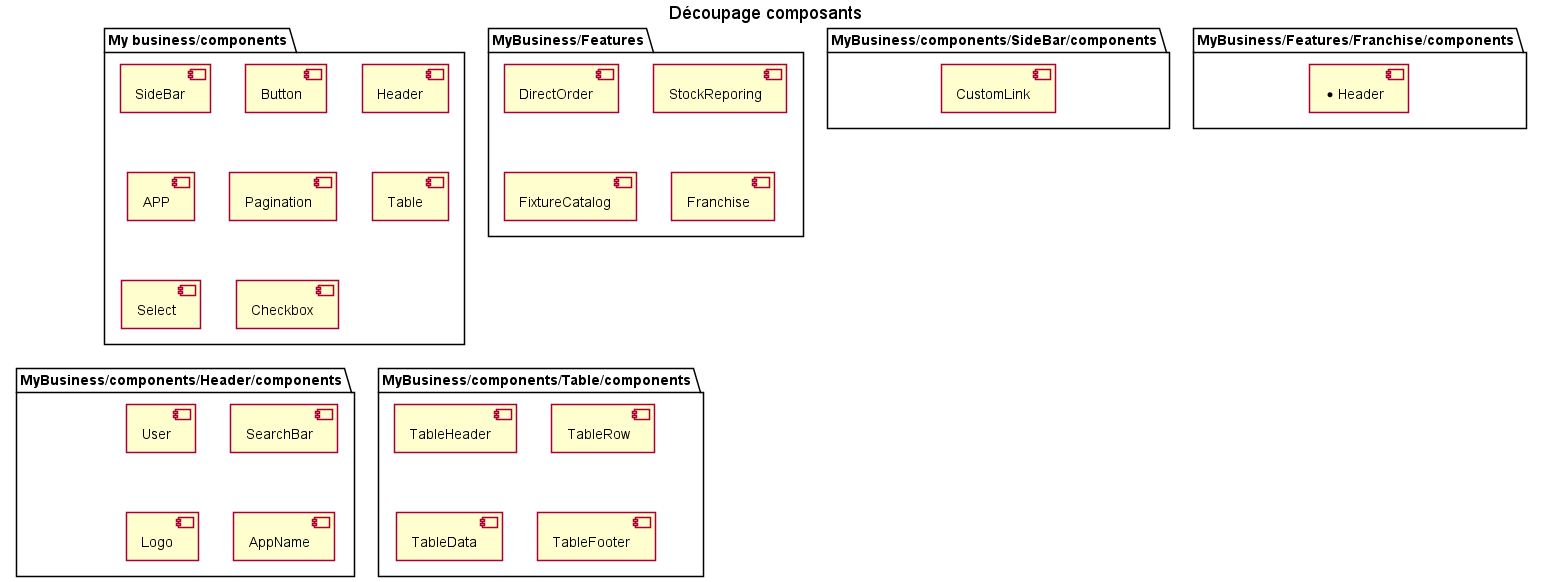
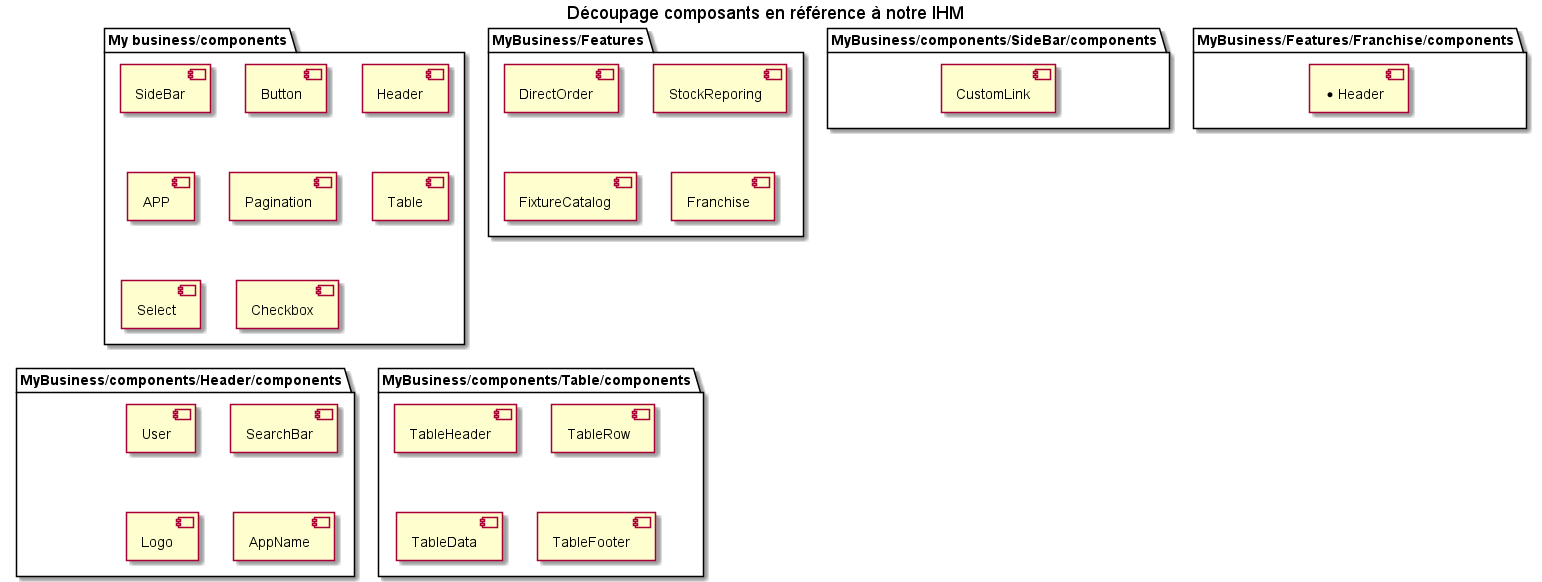
feat: continue the documentation

diff --git a/Doc-react-js.md b/Doc-react-js.md
@@ -1,65 +1,4 @@
 <!-- # Summary -->
-<!-- # Plan
-# Partie 1 - Installation de l'environnement React 
-
-#### Prérequis 
-## A. Création d'un projet React
-## I. ## I. 3 Méthodes
-
--   ### Manuel avec webpack et babel
-    
--   ###  Create-React-App
-    #### 1. Installation de Create-React-App
-
-- ### Vite
-    #### 1. Installation de vite
-
-## II. Pourquoi vite plutôt que CRA
-
-# Partie 2 - Comment architecturer son projet React
-
-### A. IHM de référence
-
-### B. Conception technique 
-
-#### 1. React router
-
-#### 2. Gestion des états globaux
-#### Installation de redux et redux-toolkit
-
-## Schéma
-
-#### Exemple de la gestion de l'état de la configuration de notre application globale
-
-#### 3. Découpage des composants 
-
-#### 4. Requêtes Api
-
-#### 5. Communication entre les composants
-
-#### 6. Architecture globale  des fichiers 
-
-### C. Bonnes pratiques
-
-#### 1. Séparer la logique du rendu visuel
-
-#### 2. Principe de responsabilité unique
-
-#### 3. Destructuration des objets
-
-#### 4. Utilisation des propTypes
-
-#### 5. Utilisation des conditions de rendu 
-
-#### 6. Gestion des classes CSS
- 		
-#### 7. Utilisation d'un linter
-
-#### 8. Evitez les excès de commentaires
-
-### D. Librairies pratiques -->
-
- 
 
 # Partie 1 - Installation de l'environnement React 
 
@@ -69,9 +8,9 @@ Installation du serveur et gestionnaire de paquets
 
 node js => https://nodejs.org/en/
 
-## A. Création d'un projet React
-## I. 3 Méthodes
--   ### Manuel avec webpack et babel
+## Création d'un projet React
+## Méthodes
+- ### Manuel avec webpack et babel
    Suivre la prcocédure https://imranhsayed.medium.com/set-up-react-app-with-webpack-webpack-dev-server-and-babel-from-scratch-df398174446d
 
     **liens utiles:**
@@ -80,13 +19,13 @@ node js => https://nodejs.org/en/
 
     https://webpack.js.org/loaders/babel-loader/
 
--   ###  Create-React-App
+- ###  Create-React-App
 
-    #### 1. Installation de Create-React-App
+    #### Installation de Create-React-App
 Suivre la prcocédure https://create-react-app.dev/docs/getting-started
 
 - ### Vite
-    #### 1. Installation de vite
+    #### Installation de vite
 Suivre la prcocédure https://vitejs.dev/guide/
 
 ## II. Pourquoi VITE plutôt que CRA
@@ -106,23 +45,23 @@ En resumé pour les petits projets CRA peut être suffisant, en revanche utilise
 
 # Partie 2 - Comment architecturer son projet React
 
-### A. IHM de référence
+### IHM de référence
 ![IHM](./IHM_My_business.png)
 
-### B. Conception technique 
+### Conception technique 
 
-#### 1. React router
+#### React router
 
 Documentation : https://reactrouter.com/web/guides/quick-start
 
 Dans le contexte de notre IHM, l'application globale aura un router qui redirigera vers chaque features et ensuite chaque feature gére son propre router.
 
-#### 2. Gestion des états globaux
+#### Gestion des états globaux
 
 #### Installation de redux et redux-toolkit
 Suivre la proccédure de cette documentation https://redux.js.org/introduction/getting-started
 
-#### Schéma des multiples reducers
+#### Schéma des multiples reducers de notre application
 ![IHM](./out/redux/redux.svg)
 
 #### Exemple de gestion d'état de notre config
@@ -191,14 +130,35 @@ export const User = () => {
  ```
 
 
-#### 3. Découpage des composants 
+#### 3. Découpage des composants
 #### Schéma
 ![IHM](./out/listOfComponents/listOfComponents.svg)
-    - Communication entre composants 
-    - Eviter les rendus superflus
-    - Tests des composants (librairies + cas d'utilisations)
-    - Exemple de structure des fichiers d'un composant (custom hooks(ex: useFecth, useInput), services, jsx)
 
+#### Architecture fichier d'un composant
+Prenons par exemple le composant Button qui est situé dans le perimêtre global, nous découperons le composant ainsi
+
+    ├───Button
+        ├───index.jsx
+        ├───Button.css
+        ├───Services.js
+        ├───Services.test.js
+        ├───Button.test.jsx
+       
+Si un composant posséde des composants réutilisables seulement dans ce composant, créer un dossier components dans le perimêtre associé du composant comme par **exemple**
+
+    ───Button
+        ├───index.jsx
+        ├───Button.css
+        ├───Services.js
+        ├───Services.test.js
+        ├───Button.test.jsx
+        ├───Components
+            ├───IconButton
+                ├───index.jsx
+                ├───IconButton.css
+                ├───Services.js
+                ├───Services.test.js
+                ├───IconButton.test.jsx
 #### 4. Requêtes Api
 
     - fetch, axios 
